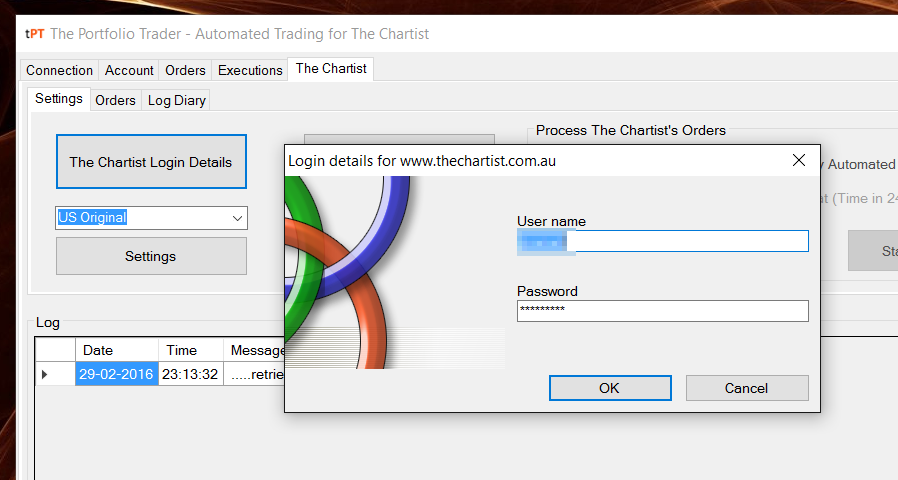
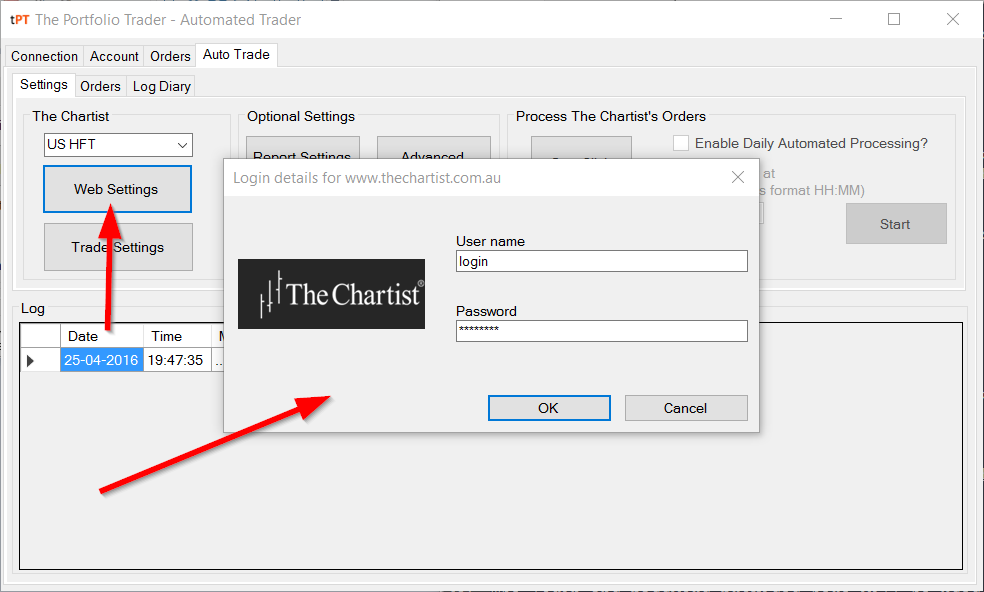
* updates

Changed region(s): [[0.0, 0.0, 1.0, 1.0]]

diff --git a/README.md b/README.md
@@ -340,11 +340,24 @@ This provides a user-interface to alter settings for trading using [**The Charti
 <br>
 
 
-### The Chartist: The Chartist Login Details
+### Auto Trade: Select Strategy
+Your selection of  strategy in this setting will be used by the auto-trader for determining your choice of [US Power Setups](https://www.thechartist.com.au/Benefits/short-term-share-trading.html). This settings needs to be set once and is saved locally for future use. 
+
+
+* Go to **Auto Trade** :arrow_right: **Settings** tab
+* Select a strategy from the drop-down menu as shown in the figure below
+
+
+![tc_select](https://github.com/virusme/Automated-Trader-for-The-Chartist/blob/master/screenshots/_tc_select.png)
+
+<br>
+
+
+### Auto Trade: Web Settings
 The login and password provided here will be used to login to https://www.thechartist.com.au website.
 
-* Go to **The Chartist** :arrow_right: **Settings**  tab
-* Click **The Chartist Login Details**
+* Go to **Auto Trade** :arrow_right: **Settings**  tab
+* Click **Web Settings**
 * You should enter your login and password that you use to access **The Chartist**'s [US Power Setups](https://www.thechartist.com.au/Benefits/short-term-share-trading.html)
 * This data is stored locally on your computer using strong encryption for future use
 
@@ -354,45 +367,38 @@ The login and password provided here will be used to login to https://www.thecha
 :arrow_double_up: [Back to Top](#table-of-contents)
 
 <br>
-<br>
 
 
-### The Chartist: Trade Settings
-The data provided in this setting will be used by auto-trader for determining your choice of [US Power Setups](https://www.thechartist.com.au/Benefits/short-term-share-trading.html), security type, exchange, position size, etc.
-These settings need to be set once. The settings are saved locally for future use. 
-
-#### The Chartist: Select US Power Setup Strategy
-
-* Go to **The Chartist** :arrow_right: **Settings** tab
-* Select a strategy from the drop-down menu as shown in the figure below
+### Auto Trade: Trade Settings 
+The data provided in this setting will be used by auto-trader for determining your choice of security type, exchange, position size, etc.
+These settings need to be set once and are saved locally for future use. 
 
 <br>
 
-![tc_select](https://github.com/virusme/Automated-Trader-for-The-Chartist/blob/master/screenshots/_tc_select.png)
+#### Auto Trade: Set Trade Settings
 
-<br>
-
-#### The Chartist: Set Trade Settings
-
-* Go to **The Chartist** :arrow_right: **Settings** tab
-* Click **Settings**
+* Go to **Auto Trade** :arrow_right: **Settings** tab
+* Click **Trade Settings**
 * Make changes as required and click **Apply**
 *  Default settings work well
 *  Definition of terms:
   * **File Path**: Location or a directory where you want the downloaded files to be saved. If left empty, the default is the folder the application is running in.
-  * **Markey**:  NASDAQ( default). The exchange this auto-trade will be working on
-  * **Currency**: USD (default). The currency this auto-trade will be utilising
-  * **Sec. Type**: STK (default). The security type this auto-trade will be trading
   * **Leverage**: 1.0 (default). The leverage/margin you wish to use.
   * **Allocation**: 100% (default). The percentage of capital you wish to auto-trade with. For example, if you have USD 100K, and set **Allocation** as 60%, then only USD 60K will be used for auto-trade
   * **Position Size**: 6.5% (default). The percentage of allocated capital per position
   * **Max. Amount**: 2000000 (default). Any high number you wish, this is used to make sure no *crazy* orders are placed on the market
+  
+  * **The Chartist Sheet**: Do not change these settings, these are supposed to be constants for each strategy
+     * **Market**:  NASDAQ( default). The exchange this auto-trade will be working on
+     * **Currency**: USD (default). The currency this auto-trade will be utilising
+     * **Sec. Type**: STK (default). The security type this auto-trade will be trading
+  
 
 ![tc_trade](https://github.com/virusme/Automated-Trader-for-The-Chartist/blob/master/screenshots/_tc_tcset.png)
 
 >**Note**:
 >* Do not change settings under **The Chartist Sheet**, automated trader will not work if you change this setting
->* Standard ticker and order attributes for trading [US Power Setups]() (both Original and HFT) is stored locally on your computer. They can be viewed by opening either _utilities/sys.xml_ or _utilities/hft.xml_ using a word-processor
+>* Standard Contract and Order attributes for trading [US Power Setups]() (both Original and HFT) is stored locally on your computer. They can be viewed by opening either _utilities/sys.xml_ or _utilities/hft.xml_ using a word-processor
 >* Every time **Apply** is clicked, the settings are saved for future use
 
 
@@ -403,10 +409,10 @@ These settings need to be set once. The settings are saved locally for future us
 
 
 
-### The Chartist: Set Report Settings
+### Auto Trade: Set Report Settings
 The data provided here will be used for generating and saving reports, as well as emailing the report to your chosen email address.
 
-* Go to **The Chartist** :arrow_right: **Settings** tab
+* Go to **Auto Trade** :arrow_right: **Settings** tab
 * Click **Report Settings**
 * Make changes as required and click **Apply**
 * Definition of terms:
@@ -465,16 +471,16 @@ Figure below presents the auto-trade in action:
 <br>
 
 
-###The Chartist: Orders & Log Diary
+### Auto Trade: Orders & Log Diary
 Details of order management, daily orders and daily log (number of orders, file downloaded, etc.) will displayed here at the end of  [One-Click Process](#the-chartist-one-click-process)
 
 To View details of order management and daily orders:
-* Go to **The Chartist** :arrow_right: **Orders**
+* Go to **Auto Trade** :arrow_right: **Orders**
 
 ![tc_orders](https://github.com/virusme/Automated-Trader-for-The-Chartist/blob/master/screenshots/_tc_orders.png)
 
 To View details of daily logs:
-* Go to **The Chartist** :arrow_right: **Log Diary**
+* Go to **Auto Trade** :arrow_right: **Log Diary**
 
 ![tc_logdiary](https://github.com/virusme/Automated-Trader-for-The-Chartist/blob/master/screenshots/_tc_logdiary.png)
 
@@ -485,7 +491,7 @@ To View details of daily logs:
 <br>
 
 
-###The Chartist: Report Format
+### Auto Trade: Report Format
 
 ![tc_report](https://github.com/virusme/Automated-Trader-for-The-Chartist/blob/master/screenshots/_tc_report.png)
 
@@ -494,7 +500,7 @@ The report that will generated and emailed would consist of:
 * *Summary*: Summary of your account and placed orders
 * *Process Log*: Process log of auto-trade
 * *Log Diary*: Daily log of number of buy, sell, open positions and comments
-* *The Chartist Orders*: The Chartist orders for the day
+* *Orders*: The Chartist orders for the day
 * *Portfolio*: A snapshot of your portfolio at the time of processing
 * *API Error Logs*: Error log from the IB server
 
